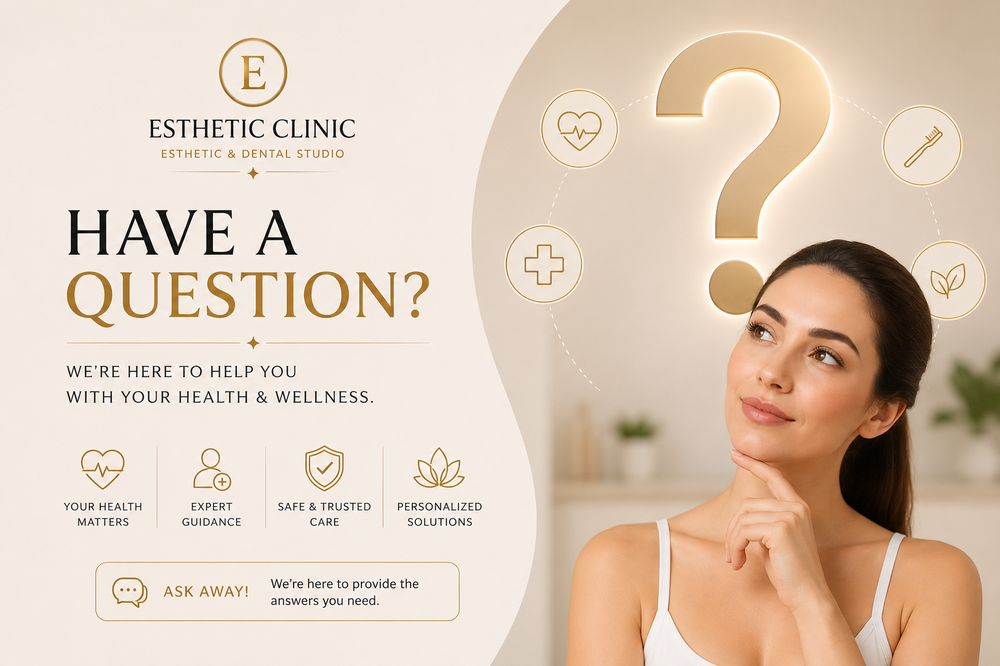
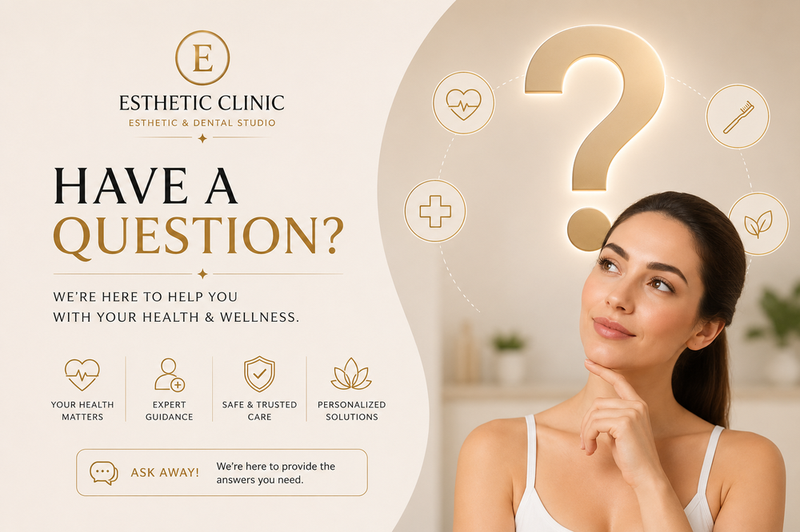
fix: stale intake-field leak across treatments + wire per-question images
- CRITICAL: switching to a different procedure/department mid-session
  (without -reset) left old intake answers in memory under shared field
  names (e.g. 'concern', 'treatment_area') across departments. Picking
  Lip Fillers (injectables) right after browsing Body Treatments showed
  body's leftover answers as already-known, silently skipping or
  mismatching the actual injectables questions. Added _set_procedure()
  helper that clears every intake_questions.py field whenever the
  procedure genuinely changes. Verified: Body -> Lip Fillers now correctly
  re-asks injectables' own 'concern' question instead of skipping it.

- Wired the 5 newly uploaded question-specific images (age, gender, skin
  concern, skin type, "how long") into the intake/screening question
  senders, with for-All-Questions-i-ask.png as the fallback for any
  question without a dedicated image yet — covers gender/age buttons,
  every department's intake questions, and the booking flow's generic
  patient_name/age fallback (which previously sent plain text with no
  image at all).

- Compressed Customer-Ask-a-Question.png (735KB->505KB) and laser_dept.png
  (976KB->630KB) further for upload reliability; compressed the 5 new
  question images from ~1.5-1.6MB down to ~520-560KB each.

- Confirmed (not a bug): -reset intentionally wipes PatientProfile too —
  by design, since its purpose is simulating a brand-new customer. A
  returning patient's name IS correctly remembered as long as -reset
[…]

diff --git a/bots/appointment/services/conversation_engine.py b/bots/appointment/services/conversation_engine.py
@@ -75,6 +75,22 @@ _PROCEDURE_IMAGE_KEYWORDS = [
     ("polishing", "White-Polishing.png"),
 ]
 
+# Per-question images for the patient-detail/intake screening flow. Any
+# question key not listed here falls back to the generic question image.
+_INTAKE_QUESTION_IMAGES = {
+    "age": "Whats-your-age.png",
+    "gender": "Whats-your-gender.png",
+    "concern": "whats-your-main-skin-concern.png",
+    "skin_duration": "how-long-you-had-concern.png",
+    "hair_duration": "how-long-you-had-concern.png",
+    "skin_type": "whats-your-skin-type.png",
+}
+_GENERIC_QUESTION_IMAGE = "for-All-Questions-i-ask.png"
+
+
+def _question_image(field: str) -> str:
+    return _image_path(_INTAKE_QUESTION_IMAGES.get(field, _GENERIC_QUESTION_IMAGE))
+
 
 def _procedure_image(name: str) -> str | None:
     lowered = (name or "").lower()
@@ -87,7 +103,23 @@ def _procedure_image(name: str) -> str | None:
 
 from ai.intent import looks_like_question
 from bots.appointment.departments import DEPARTMENTS
-from bots.appointment.intake_questions import INTAKE_QUESTIONS, next_intake_question
+from bots.appointment.intake_questions import INTAKE_QUESTIONS, ALL_INTAKE_KEYS, next_intake_question
+
+
+def _set_procedure(memory: dict, proc) -> None:
+    """Sets the chosen procedure on memory. If this is a DIFFERENT procedure
+    than whatever was there before, clears every intake-question field across
+    ALL departments first — otherwise a patient who browses, say, Body
+    Treatments and then switches to Lip Fillers keeps body's stale answers
+    (e.g. 'concern'/'treatment_area') and the wrong department's questions
+    get silently skipped or shown with the wrong options."""
+    if memory.get("procedure_id") and memory.get("procedure_id") != proc.id:
+        for key in ALL_INTAKE_KEYS:
+            memory[key] = None
+    memory["procedure_id"] = proc.id
+    memory["treatment"] = proc.name
+    memory["department"] = proc.department
+    memory["fee_estimate"] = proc.fee_per_session * proc.sessions_required
 
 from bots.appointment.services import conversation_memory as memory_store
 from bots.appointment.services import intent_classifier
@@ -349,7 +381,7 @@ async def _send_quick_time_picker(sender, bot, memory: dict) -> None:
 async def _send_screening_buttons(sender, bot, memory: dict, field: str) -> None:
     options = _SCREEN_OPTIONS[field]
     buttons = [{"id": f"SCREEN_{field}_{val}", "title": label[:20]} for val, label in options]
-    await send_interactive_buttons(sender, _FIELD_QUESTIONS[field], buttons, bot)
+    await send_interactive_buttons(sender, _FIELD_QUESTIONS[field], buttons, bot, image_path=_question_image(field))
     memory["pending_field"] = field
     memory["pending_question"] = f"awaiting_screen_{field}"
 
@@ -358,17 +390,18 @@ async def _send_intake_question(sender, bot, memory: dict, q: dict) -> None:
     """Sends one category-specific patient intake question (see intake_questions.py)
     as buttons, a list, or free text with a Skip option — deterministic, no AI."""
     key = q["key"]
+    image_path = _question_image(key)
     if q["type"] == "buttons":
         buttons = [{"id": f"INTAKE_{key}_{val}", "title": label[:20]} for val, label in q["options"]]
-        await send_interactive_buttons(sender, q["question"], buttons, bot)
+        await send_interactive_buttons(sender, q["question"], buttons, bot, image_path=image_path)
     elif q["type"] == "list":
         rows = [{"id": f"INTAKE_{key}_{val}", "title": label[:24]} for val, label in q["options"]]
-        await send_interactive_list(sender, "Choose one", q["question"], "Select", [{"title": "Options", "rows": rows}], bot)
+        await send_interactive_list(sender, "Choose one", q["question"], "Select", [{"title": "Options", "rows": rows}], bot, image_path=image_path)
     else:  # text_or_skip
         await send_interactive_buttons(
             sender, q["question"],
             [{"id": f"INTAKE_SKIP_{key}", "title": "Skip / None"}, {"id": f"INTAKE_YES_{key}", "title": "Yes"}],
-            bot,
+            bot, image_path=image_path,
         )
     memory["pending_field"] = key
     memory["pending_question"] = f"awaiting_intake_{key}"
@@ -488,7 +521,8 @@ async def _handle_booking_intent(sender, memory: dict, bot, db) -> str | None:
                 return None
             memory["pending_field"] = next_field
             memory["pending_question"] = _FIELD_QUESTIONS.get(next_field, f"Could you share your {next_field.replace('_', ' ')}?")
-            return memory["pending_question"]
+            await _send_with_image(sender, bot, _INTAKE_QUESTION_IMAGES.get(next_field, _GENERIC_QUESTION_IMAGE), memory["pending_question"])
+            return None
 
         directive = f"Ask the patient for their {next_field.replace('_', ' ')}, naturally, using everything we already know. Ask only this one thing."
         memory["pending_question"] = directive
@@ -791,10 +825,7 @@ async def handle_turn(sender: str, text: str, bot, db) -> None:
         memory["pending_question"] = None
         proc = get_procedure_by_id(db, bot.id, int(enq_book_match.group(1)))
         if proc:
-            memory["procedure_id"] = proc.id
-            memory["treatment"] = proc.name
-            memory["department"] = proc.department
-            memory["fee_estimate"] = proc.fee_per_session * proc.sessions_required
+            _set_procedure(memory, proc)
         reply = await _handle_booking_intent(sender, memory, bot, db)
         memory_store.append_history(memory, "assistant", reply or "")
         memory_store.save_memory(db, bot.id, sender, memory)
@@ -1002,10 +1033,7 @@ async def handle_turn(sender: str, text: str, bot, db) -> None:
     if proc_match and memory.get("pending_question") == "awaiting_procedure_choice":
         proc = get_procedure_by_id(db, bot.id, int(proc_match.group(1)))
         if proc:
-            memory["procedure_id"] = proc.id
-            memory["treatment"] = proc.name
-            memory["department"] = proc.department
-            memory["fee_estimate"] = proc.fee_per_session * proc.sessions_required
+            _set_procedure(memory, proc)
         memory["pending_question"] = None
         memory["pending_field"] = None
 

diff --git a/bots/appointment/intake_questions.py b/bots/appointment/intake_questions.py
@@ -152,6 +152,9 @@ INTAKE_QUESTIONS = {
 }
 
 
+ALL_INTAKE_KEYS = {q["key"] for questions in INTAKE_QUESTIONS.values() for q in questions}
+
+
 def next_intake_question(department: str, memory: dict) -> dict | None:
     """Returns the next unanswered question for this department, or None when
     the whole intake sequence is complete. Conditionally skips per skip_if."""